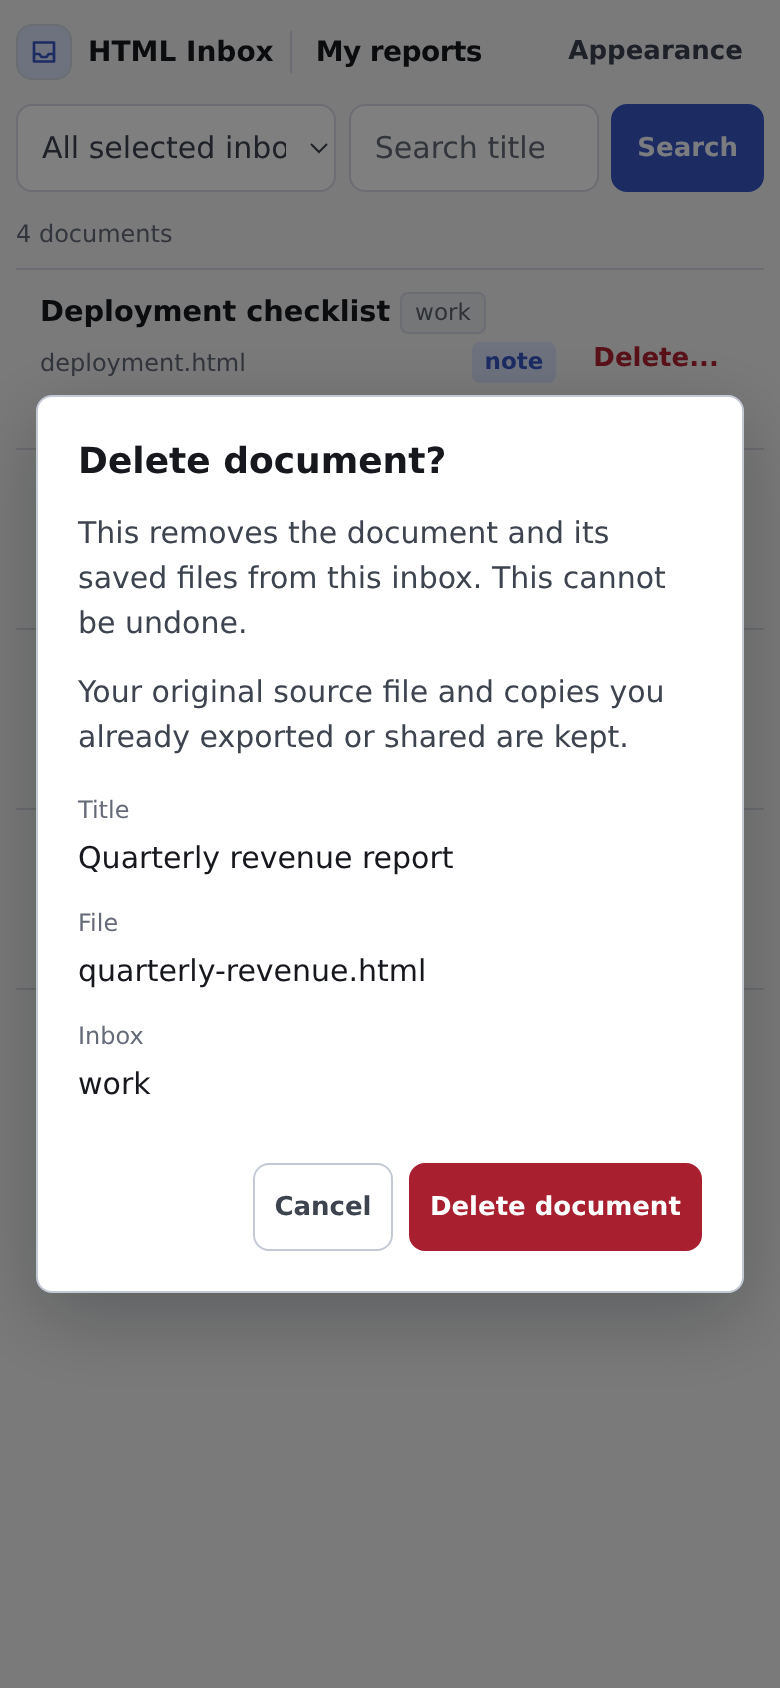
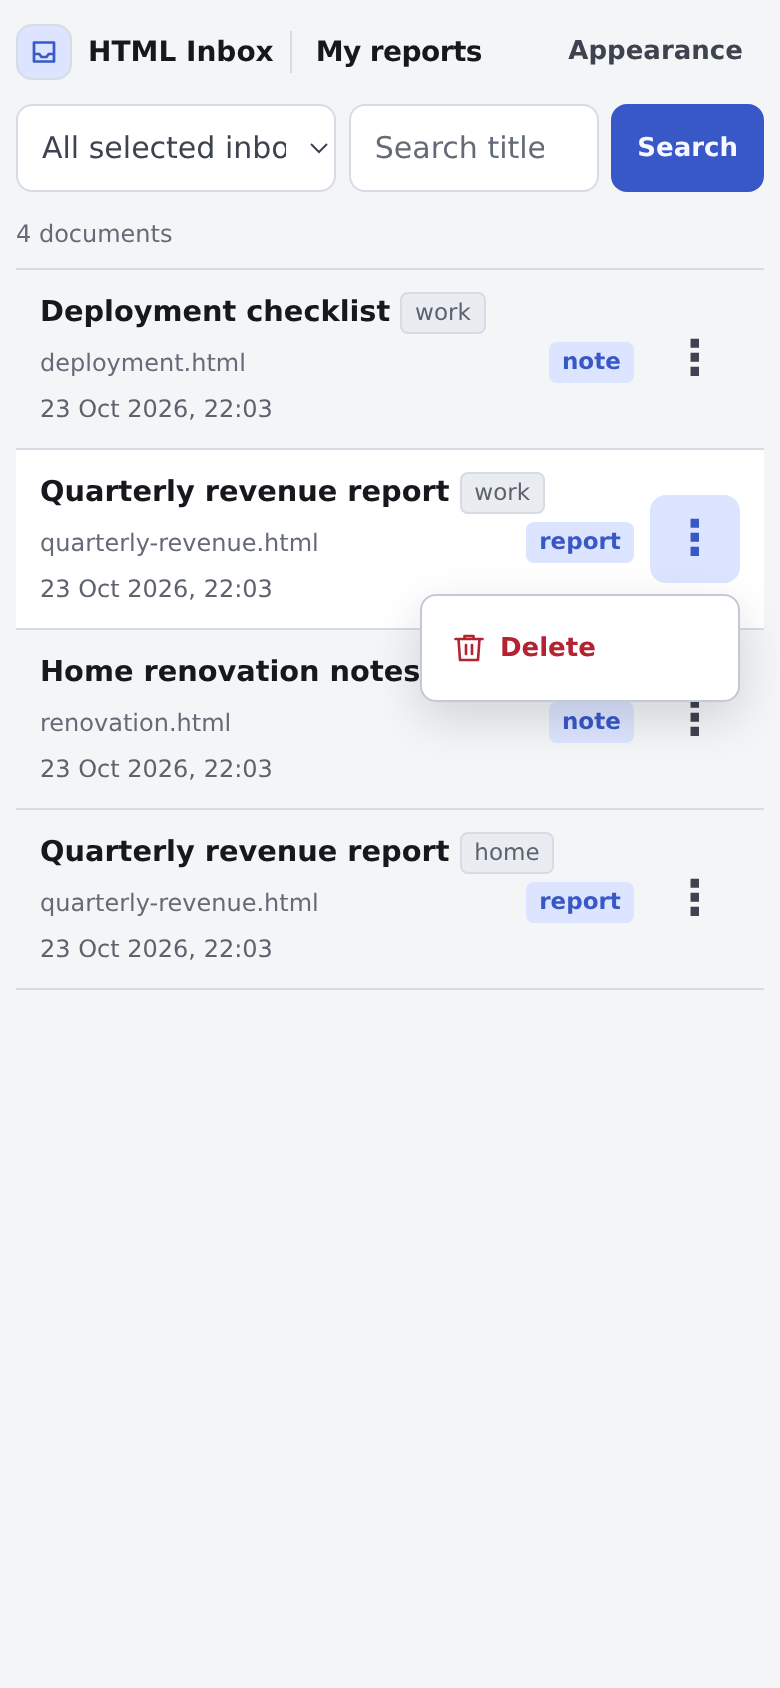
Move document deletion into row options menus

diff --git a/packages/cli/src/viewer-render.ts b/packages/cli/src/viewer-render.ts
@@ -106,7 +106,7 @@ function renderLibrary(
                 <time class="document-date" datetime="${escapeHtml(document.metadata.createdAt)}" data-local-date>${escapeHtml(formatDate(document.metadata.createdAt, options.timeZone))}</time>
                 <span class="doc__source" title="${escapeHtml(document.metadata.sourceFileName)}">${escapeHtml(document.metadata.sourceFileName)}</span>
                 <span class="document-type">${escapeHtml(document.metadata.type)}</span>
-                ${options.deletion ? renderDeleteAction(document.metadata, document.documentPath, document.inboxName ?? options.inboxName ?? "Inbox", "doc__delete") : ""}
+                ${options.deletion ? renderDocumentActions(document.metadata, document.documentPath, document.inboxName ?? options.inboxName ?? "Inbox") : ""}
               </li>`,
           )
           .join("")}</ol>`;
@@ -202,8 +202,17 @@ export function renderDocumentShell(
   );
 }
 
+function renderDocumentActions(metadata: DocumentMetadata, documentPath: string, inboxName: string): string {
+  return `<details class="viewer-menu doc__actions" data-viewer-menu>
+                  <summary class="toolbar-control" aria-label="${escapeHtml(`Options for ${metadata.title} in ${inboxName}`)}" title="Document options"><span aria-hidden="true">&#8942;</span></summary>
+                  <div class="viewer-menu__panel doc__actions-panel">
+                    ${renderDeleteAction(metadata, documentPath, inboxName, "doc__actions-delete")}
+                  </div>
+                </details>`;
+}
+
 function renderDeleteAction(metadata: DocumentMetadata, documentPath: string, inboxName: string, className: string): string {
-  return `<button class="toolbar-control delete-action ${className}" type="button" data-delete-document data-delete-url="${escapeHtml(`/api${documentPath}`)}" data-document-path="${escapeHtml(documentPath)}" data-document-title="${escapeHtml(metadata.title)}" data-document-file="${escapeHtml(metadata.sourceFileName)}" data-inbox-name="${escapeHtml(inboxName)}" aria-label="${escapeHtml(`Delete ${metadata.title}...`)}">Delete...</button>`;
+  return `<button class="toolbar-control delete-action ${className}" type="button" data-delete-document data-delete-url="${escapeHtml(`/api${documentPath}`)}" data-document-path="${escapeHtml(documentPath)}" data-document-title="${escapeHtml(metadata.title)}" data-document-file="${escapeHtml(metadata.sourceFileName)}" data-inbox-name="${escapeHtml(inboxName)}" aria-label="${escapeHtml(`Delete ${metadata.title}`)}"><svg width="18" height="18" viewBox="0 0 24 24" fill="none" stroke="currentColor" stroke-width="1.75" stroke-linecap="round" stroke-linejoin="round" aria-hidden="true" focusable="false"><path d="M3 6h18M9 6V4h6v2M5 6l1 14h12l1-14M10 10v6M14 10v6"/></svg><span>Delete</span></button>`;
 }
 
 function renderDeletionDialog(token: string, homePath: string): string {

diff --git a/site/docs/publishing.html b/site/docs/publishing.html
@@ -272,8 +272,8 @@ html-inbox list</code></pre>
         <p>
           Open the inbox URL from <code>viewer</code>. The live viewer searches
           document title, type, and source file name. It does not perform
-          full-text search of document HTML. Live list rows and document options
-          offer <strong>Delete...</strong>. Publishing and process control have
+          full-text search of document HTML. Live list rows' three-dot menus
+          and document options offer <strong>Delete</strong>. Publishing and process control have
           no reader HTTP endpoints.
         </p>
         <p>
@@ -289,8 +289,9 @@ html-inbox list</code></pre>
         </div>
         <h2 id="delete">Delete a document</h2>
         <p>
-          In a live viewer or hub, choose <strong>Delete...</strong> on the
-          document's list row or in document options. The modal shows its title,
+          In a live viewer or hub, choose <strong>Delete</strong> in the
+          document's three-dot menu in the list or in document options.
+          The modal shows its title,
           filename, and inbox, explains permanent deletion, and defaults to
           Cancel. Every reachable live reader can delete, without a startup
           grant or separate reader login. Hub filters do not restrict deletion

diff --git a/packages/cli/src/viewer-assets.ts b/packages/cli/src/viewer-assets.ts
@@ -241,7 +241,11 @@ h1 { margin: 0; color: var(--text-strong); font-weight: 650; letter-spacing: -0.
 }
 .doc__title::after { content: ""; position: absolute; inset: 0; }
 .doc--deletable { grid-template-columns: minmax(0, 1.3fr) minmax(0, 1fr) minmax(4rem, 7rem) auto auto; grid-template-areas: "title source type date action"; }
-.doc__delete { position: relative; z-index: 1; grid-area: action; }
+.doc__actions { z-index: 1; grid-area: action; }
+.doc__actions[open] { z-index: 5; }
+.doc__actions > summary { font-size: 1.5rem; }
+.doc__actions-panel { width: 10rem; padding: 0.25rem; }
+.doc__actions-delete { justify-content: flex-start; width: 100%; }
 .delete-action { color: var(--danger); }
 .delete-action:hover { color: var(--danger); background: var(--danger-soft); }
 .viewer-menu__delete { justify-content: flex-start; width: 100%; margin-top: 1rem; border-top: 1px solid var(--border); border-radius: 0; }

diff --git a/site/docs/index.html b/site/docs/index.html
@@ -264,8 +264,8 @@ html-inbox viewer status</code></pre>
         <p>
           <code>viewer</code> prints the inbox URL. Search in the browser by
           title, type, or original file name. In a live viewer or hub, choose
-          <strong>Delete...</strong> on a list row or in document options to
-          remove one document. The confirmation shows its title, filename, and
+          <strong>Delete</strong> in a list row's three-dot menu or in document
+          options to remove one document. The confirmation shows its title, filename, and
           inbox and defaults to Cancel. Every reachable live reader can delete,
           on loopback, LAN, and Tailscale. Hub filters do not restrict this
           authority. For CLI deletion, use a document ID from <code>list</code>.

diff --git a/site/docs/lan.html b/site/docs/lan.html
@@ -222,8 +222,8 @@ html-inbox viewer --lan</code></pre>
         <p>
           LAN readers can browse and search the inbox, open documents, and
           permanently delete individual documents. Choose
-          <strong>Delete...</strong> on a list row or in document options. The
-          confirmation identifies the title, filename, and inbox and defaults
+          <strong>Delete</strong> in a list row's three-dot menu or in document
+          options. The confirmation identifies the title, filename, and inbox and defaults
           to Cancel. Deletion needs no startup grant or separate reader login.
           Publishing, process control, and service configuration remain local
           CLI operations.

diff --git a/site/docs/cli-reference.html b/site/docs/cli-reference.html
@@ -198,8 +198,8 @@ html-inbox delete &lt;id&gt; [--force] [--json]</code></pre>
           Non-interactive deletion needs <code>--force</code>.
         </p>
         <p>
-          In a live viewer or hub, choose <strong>Delete...</strong> on a list
-          row or in document options. The
+          In a live viewer or hub, choose <strong>Delete</strong> in a list
+          row's three-dot menu or in document options. The
           <a href="viewer.html#delete">confirmation</a> defaults to Cancel and
           identifies the title, filename, and inbox. Every reachable live reader
           can delete, without a startup grant or reader login, on loopback, LAN,

diff --git a/site/docs/viewer.html b/site/docs/viewer.html
@@ -160,8 +160,8 @@
         </p>
         <h2 id="delete">Delete one document</h2>
         <p>
-          Choose <strong>Delete...</strong> from a live inbox list row or the
-          document options menu. The confirmation shows the title, filename,
+          Choose <strong>Delete</strong> from a live inbox list row's three-dot
+          menu or the document options menu. The confirmation shows the title, filename,
           and inbox, explains permanent deletion, and defaults to Cancel.
           Confirming removes the stored document from its original inbox.
           There is no Undo or bulk deletion. The original source file, existing

diff --git a/site/docs/tailscale.html b/site/docs/tailscale.html
@@ -173,7 +173,8 @@
           Serve configuration.
         </p>
         <p>
-          Use <strong>Delete...</strong> on a list row or in document options;
+          Use <strong>Delete</strong> in a list row's three-dot menu or in
+          document options;
           <a href="viewer.html#delete">the confirmation</a> defaults to Cancel.
           Publishing and process control remain local CLI operations. Existing
           exported and hosted snapshots remain read-only independent copies,

diff --git a/packages/cli/README.md b/packages/cli/README.md
@@ -2,7 +2,7 @@
 
 The unreleased named-inbox work adds `inbox create`, `inbox register`, `--inbox` selection, and a local reading `hub` with explicit membership. See [named inboxes and local reading](https://github.com/deveshsangwan/html-inbox/blob/main/docs/named-inboxes.md) for selection, membership, and exposure rules. Check the actual executable's `--help` for each command and flag. The published pinned `html-inbox@0.2.1` fallback lacks these features; a checkout can report the same version with different capabilities. Updating a skill does not install or deploy them.
 
-Live UI deletion is also unreleased. Check the running viewer for **Delete...** before relying on it. Updating a skill does not update the CLI or a running viewer.
+Live UI deletion is also unreleased. Check the running viewer for **Delete** before relying on it. Updating a skill does not update the CLI or a running viewer.
 
 HTML Inbox stores generated HTML reports in a local library, previews them through a sandboxed viewer, and can publish complete unlisted snapshots to a user-owned Cloudflare Pages project. The live viewer listens on loopback by default.
 
@@ -102,7 +102,7 @@ html-inbox viewer --tailscale
 
 LAN mode trusts everyone who can reach the port, with no login or reader token. Tailscale mode uses an already installed and connected Tailscale client, HTTPS Serve, and your tailnet access policy. MagicDNS and HTTPS must be available. The backend stays on loopback. HTML Inbox refuses conflicting Serve/Funnel settings, preserves unrelated services, and removes only its verified owned route. Every reachable live reader can read and permanently delete individual documents, including on loopback. Deletion needs no startup grant or separate login. Publishing and viewer management remain local CLI operations.
 
-Choose **Delete...** from a live document's list row or document options. The confirmation shows its title, filename, and inbox, defaults to Cancel, and explains that deletion is permanent. A hub deletes from the document's original mounted inbox, bound to its captured canonical root, UUID, and filesystem identity under the same OS account. Filters do not limit deletion authority. There is no Undo or bulk deletion. The original source file, existing exports, and remote snapshots remain unchanged. Static exported and hosted copies are read-only and contain no live viewer credentials.
+Choose **Delete** from a live document's three-dot menu in the list or its document options. The confirmation shows its title, filename, and inbox, defaults to Cancel, and explains that deletion is permanent. A hub deletes from the document's original mounted inbox, bound to its captured canonical root, UUID, and filesystem identity under the same OS account. Filters do not limit deletion authority. There is no Undo or bulk deletion. The original source file, existing exports, and remote snapshots remain unchanged. Static exported and hosted copies are read-only and contain no live viewer credentials.
 
 `--loopback`, `--lan`, and `--tailscale` are mutually exclusive. Commands without explicit networking options reuse the saved configuration. Stop an exposed viewer, then start with `--loopback` to return to local access. `--port` overrides `HTML_INBOX_PORT`; `HTML_INBOX_HOME` selects the library. Use `HTML_INBOX_TAILSCALE_COMMAND` to select an existing Tailscale executable when needed.
 

diff --git a/docs/named-inboxes.md b/docs/named-inboxes.md
@@ -2,7 +2,7 @@
 
 Home, Development, and Office can be independent libraries with separate documents, viewer ports, preferences, exports, and exposure settings. Naming a library records its existing location. It does not move or combine documents.
 
-This page describes unreleased named-inbox and hub work, including live single-document deletion and the revised terminal choice and output behavior. The published `html-inbox@0.2.1` package lacks these features. Check the actual executable's `--help` for the commands and flags you need, and the running viewer for **Delete...**; a source checkout can report the same version with different capabilities. Reading these docs or updating a skill does not install or deploy a CLI.
+This page describes unreleased named-inbox and hub work, including live single-document deletion and the revised terminal choice and output behavior. The published `html-inbox@0.2.1` package lacks these features. Check the actual executable's `--help` for the commands and flags you need, and the running viewer for **Delete**; a source checkout can report the same version with different capabilities. Reading these docs or updating a skill does not install or deploy a CLI.
 
 ## Name libraries deliberately
 
@@ -122,7 +122,7 @@ html-inbox hub --config /absolute/path/to/reading-hub.json --port 4322
 
 The hub serves one combined list and search over all selected inboxes, with inbox badges and a source filter. Document links contain the source name plus original document ID, so identical IDs in different libraries remain distinct. Content routes return the original bytes through the existing sandbox and CSP. Standalone viewer and export URLs retain their existing forms.
 
-Every reachable live hub reader can permanently delete individual documents from every mounted inbox. Choose **Delete...** on a list row or in document options. The modal shows the title, filename, and source inbox, explains permanent deletion, and defaults to Cancel. There is no Undo or bulk deletion. The original source file, existing exports, and remote snapshots remain unchanged. Static exported or hosted snapshots are read-only independent copies with no live viewer credentials.
+Every reachable live hub reader can permanently delete individual documents from every mounted inbox. Choose **Delete** in a list row's three-dot menu or in document options. The modal shows the title, filename, and source inbox, explains permanent deletion, and defaults to Cancel. There is no Undo or bulk deletion. The original source file, existing exports, and remote snapshots remain unchanged. Static exported or hosted snapshots are read-only independent copies with no live viewer credentials.
 
 Source viewers may be stopped. The hub reads existing files directly without creating directories, changing permission modes, writing preferences, or copying runtime records. Each source has an explicitly bound deletion writer for its captured canonical root, expected UUID, and filesystem identity, under the same OS account. It revalidates that binding before deleting, rather than resolving a mutable catalog name or accepting a target path from the browser. A missing or replaced source fails without creating a new library or targeting another source.
 

diff --git a/README.md b/README.md
@@ -10,7 +10,7 @@ The CLI is packaged as a self-contained `html-inbox` executable with no runtime 
 
 The unreleased named-inbox work lets you name independent local libraries and read an explicit set through a local hub. See [named inboxes and local reading](docs/named-inboxes.md) for selection, source membership, and exposure rules. Check the executable's `--help` for each command and flag; the published pinned `html-inbox@0.2.1` fallback lacks these features, and a checkout's version number alone does not prove support.
 
-Live UI deletion is also unreleased. Check the running viewer for **Delete...** before relying on it. Updating a skill does not update the CLI or a running viewer.
+Live UI deletion is also unreleased. Check the running viewer for **Delete** before relying on it. Updating a skill does not update the CLI or a running viewer.
 
 With that support, library commands select explicit `--inbox` / `--home`, then process `HTML_INBOX_NAME` / `HTML_INBOX_HOME`, then a configured default. Without a binding or default, registered entries require a one-operation choice by exact name or `#N` row in a fully interactive terminal. Redirecting stdin, stdout, or stderr disables the picker. Pipelines, non-TTY callers, and `--json` fail with available names and selector guidance on stderr, leaving stdout empty. Even one entry requires a choice. With no registered entries, legacy `~/.html-inbox` first use remains. A choice never saves a current inbox or default.
 
@@ -138,7 +138,7 @@ html-inbox viewer stop
 
 Use `--json` with `list` or `delete` for automation. Non-interactive CLI deletion requires `--force`. The viewer also supports server-rendered search across title, type, and source file name.
 
-In a live viewer or combined hub, choose **Delete...** from a document's list row or document options. The confirmation shows the title, filename, and inbox, explains permanent deletion, and defaults to Cancel. Confirming removes that document from its original inbox. There is no Undo or bulk deletion. The original source file, existing exports, and remote snapshots remain unchanged. Static exported or hosted copies are read-only and contain no live viewer credentials.
+In a live viewer or combined hub, choose **Delete** from a document's three-dot menu in the list or its document options. The confirmation shows the title, filename, and inbox, explains permanent deletion, and defaults to Cancel. Confirming removes that document from its original inbox. There is no Undo or bulk deletion. The original source file, existing exports, and remote snapshots remain unchanged. Static exported or hosted copies are read-only and contain no live viewer credentials.
 
 ## Reading documents and appearance
 

diff --git a/docs/adr/0001-static-remote-inbox.md b/docs/adr/0001-static-remote-inbox.md
@@ -18,7 +18,7 @@ The local library remains the only source of truth and the only mutable document
 
 The viewer remains loopback-only by default. Explicit LAN mode exposes the live library to everyone who can reach its port. Explicit Tailscale mode exposes it through HTTPS Serve under the user's tailnet policy, with a loopback backend. Every reachable live viewer or hub reader can read and permanently delete individual documents, without a startup grant, reader login, or network-mode restriction. The owner chooses the network and trusts its reachable readers with deletion. Hub source filters do not restrict authority. Publishing and process management remain local CLI operations; process health uses a separate private local control endpoint.
 
-Live list rows and document options offer Delete... with a confirmation that shows title, filename, and inbox, explains permanent deletion, and defaults to Cancel. There is no Undo or bulk deletion. The operation renames a record out of its source library before purging it, and reports cleanup failure if purge fails after the record disappears. It preserves the original source file and existing static copies.
+Each live list row's three-dot menu and document options offer Delete with a confirmation that shows title, filename, and inbox, explains permanent deletion, and defaults to Cancel. There is no Undo or bulk deletion. The operation renames a record out of its source library before purging it, and reports cleanup failure if purge fails after the record disappears. It preserves the original source file and existing static copies.
 
 The hub explicitly binds each local source's deletion writer to its captured canonical root, durable inbox UUID, and filesystem identity under the same OS account. It revalidates that binding before deletion. Missing, unavailable, or replaced sources fail without recreation or an alternate target. This does not grant arbitrary source mutation. Live requests require the process-scoped CSRF token and matching Origin, retain Host checks, and use `frame-ancestors 'none'` on live shells. Original document sandbox and CSP remain intact.
 
